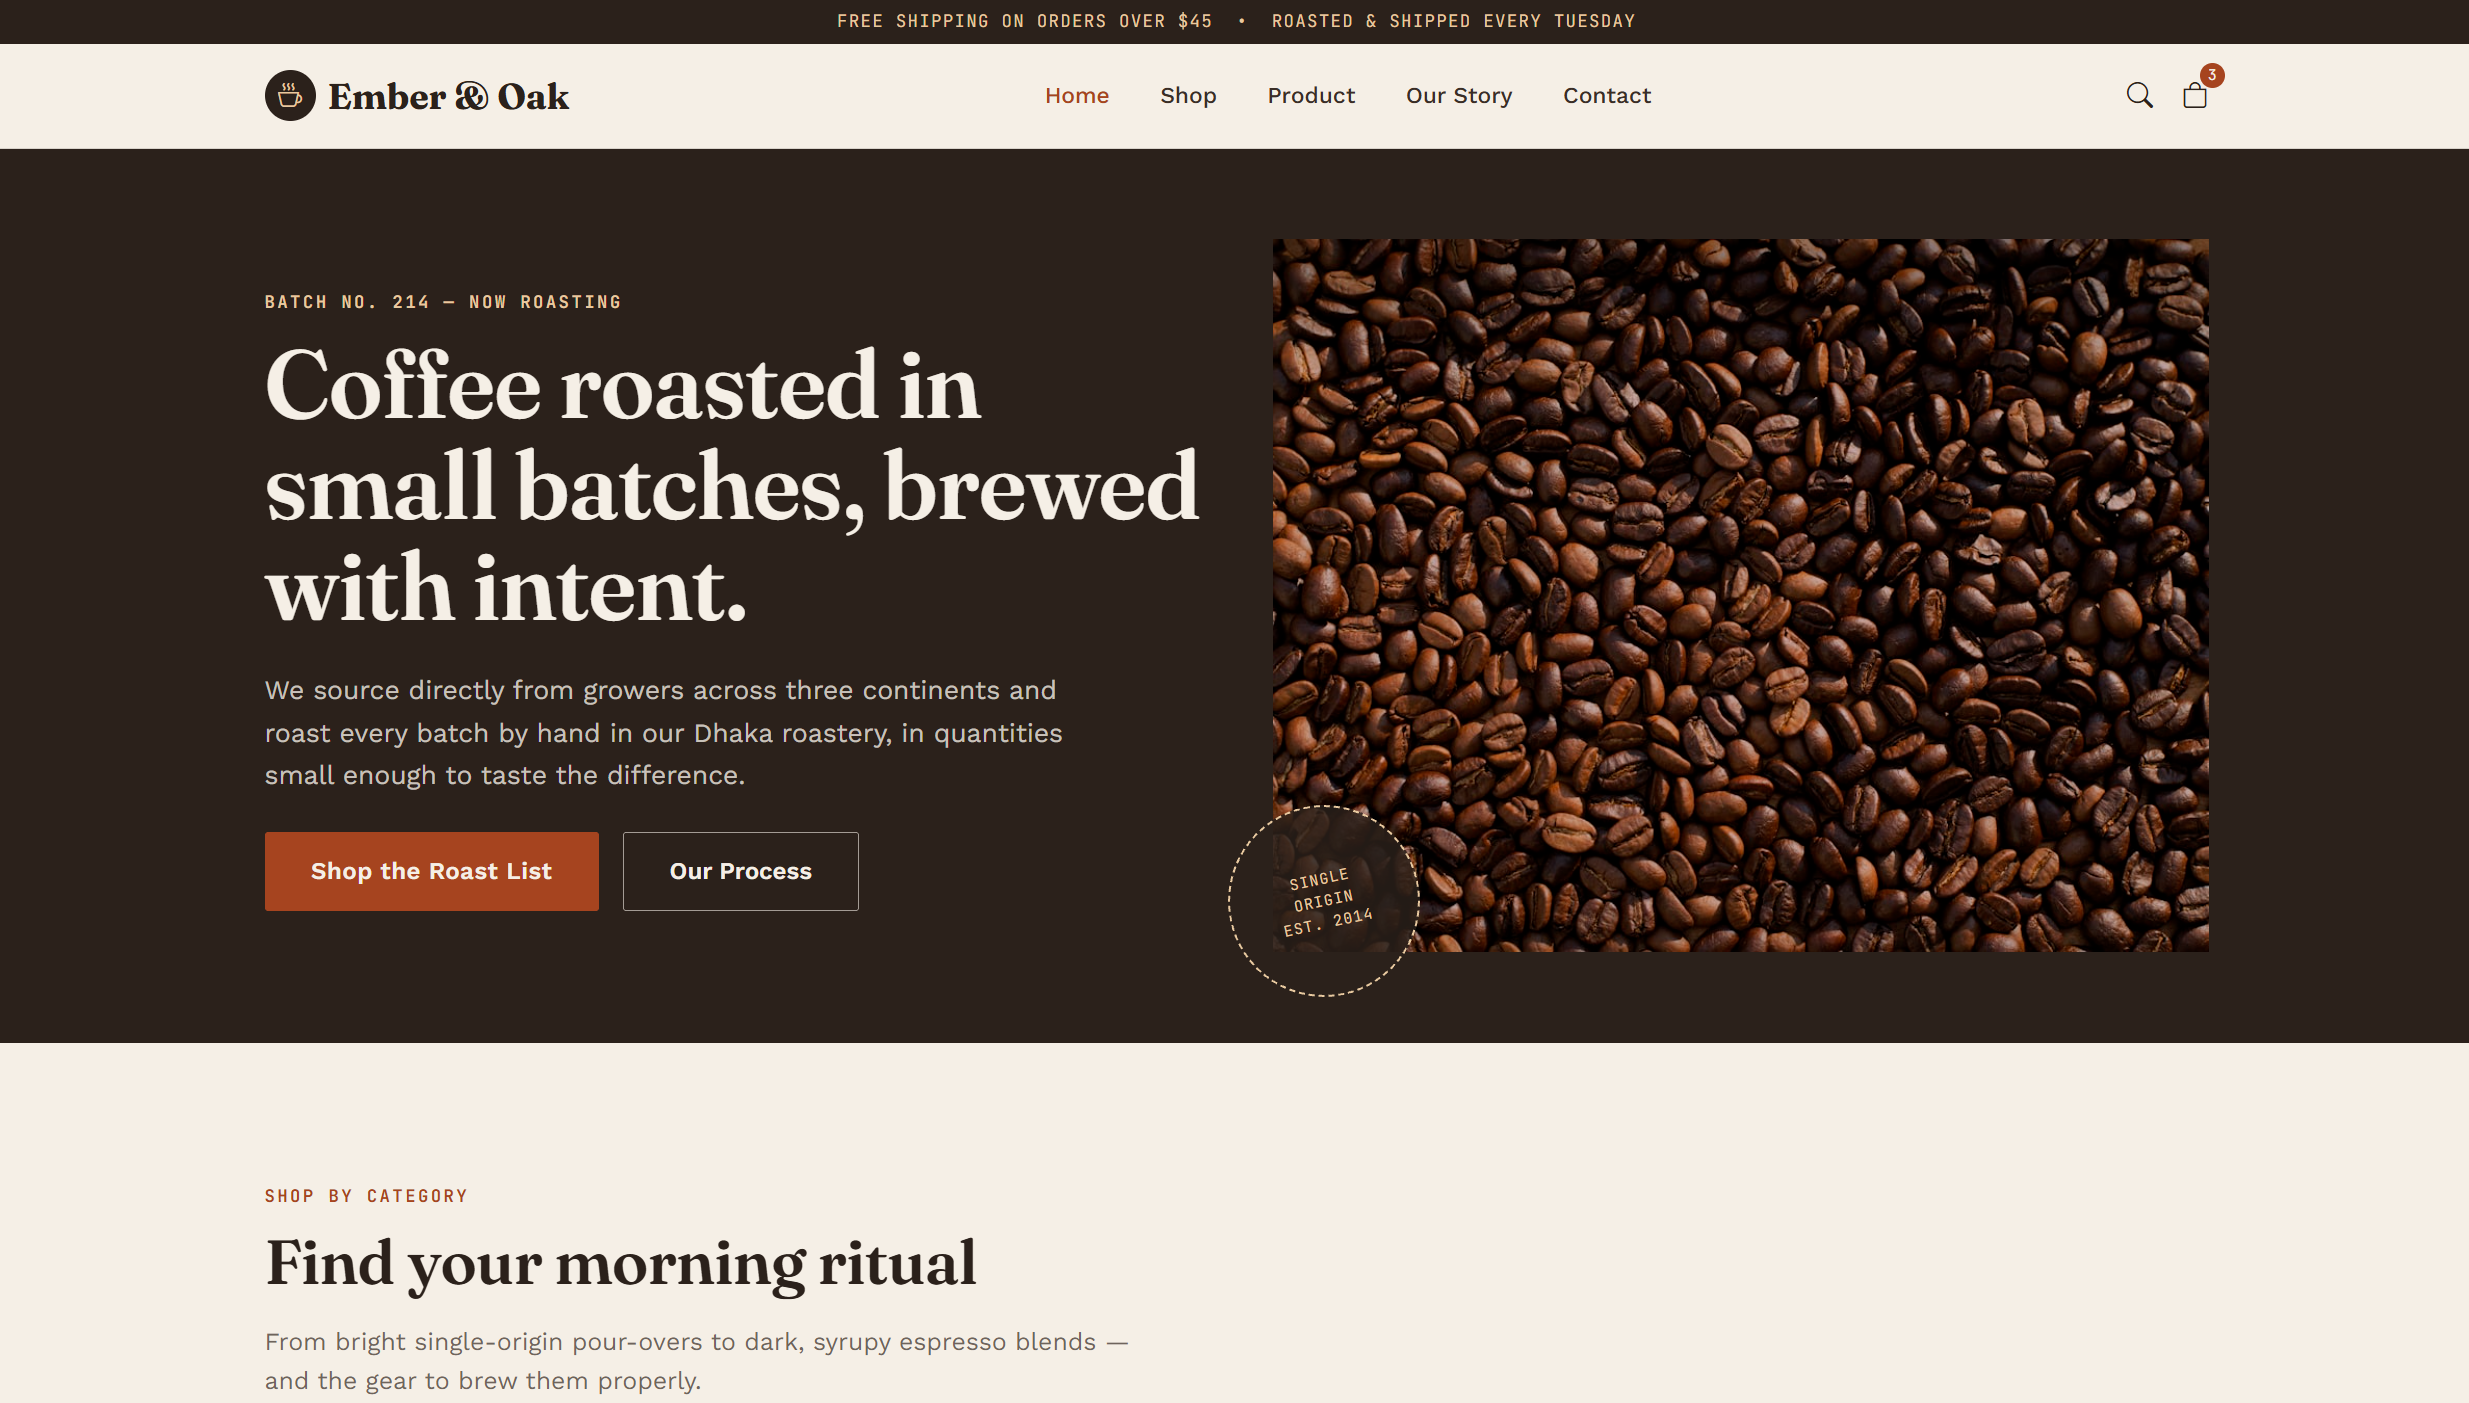
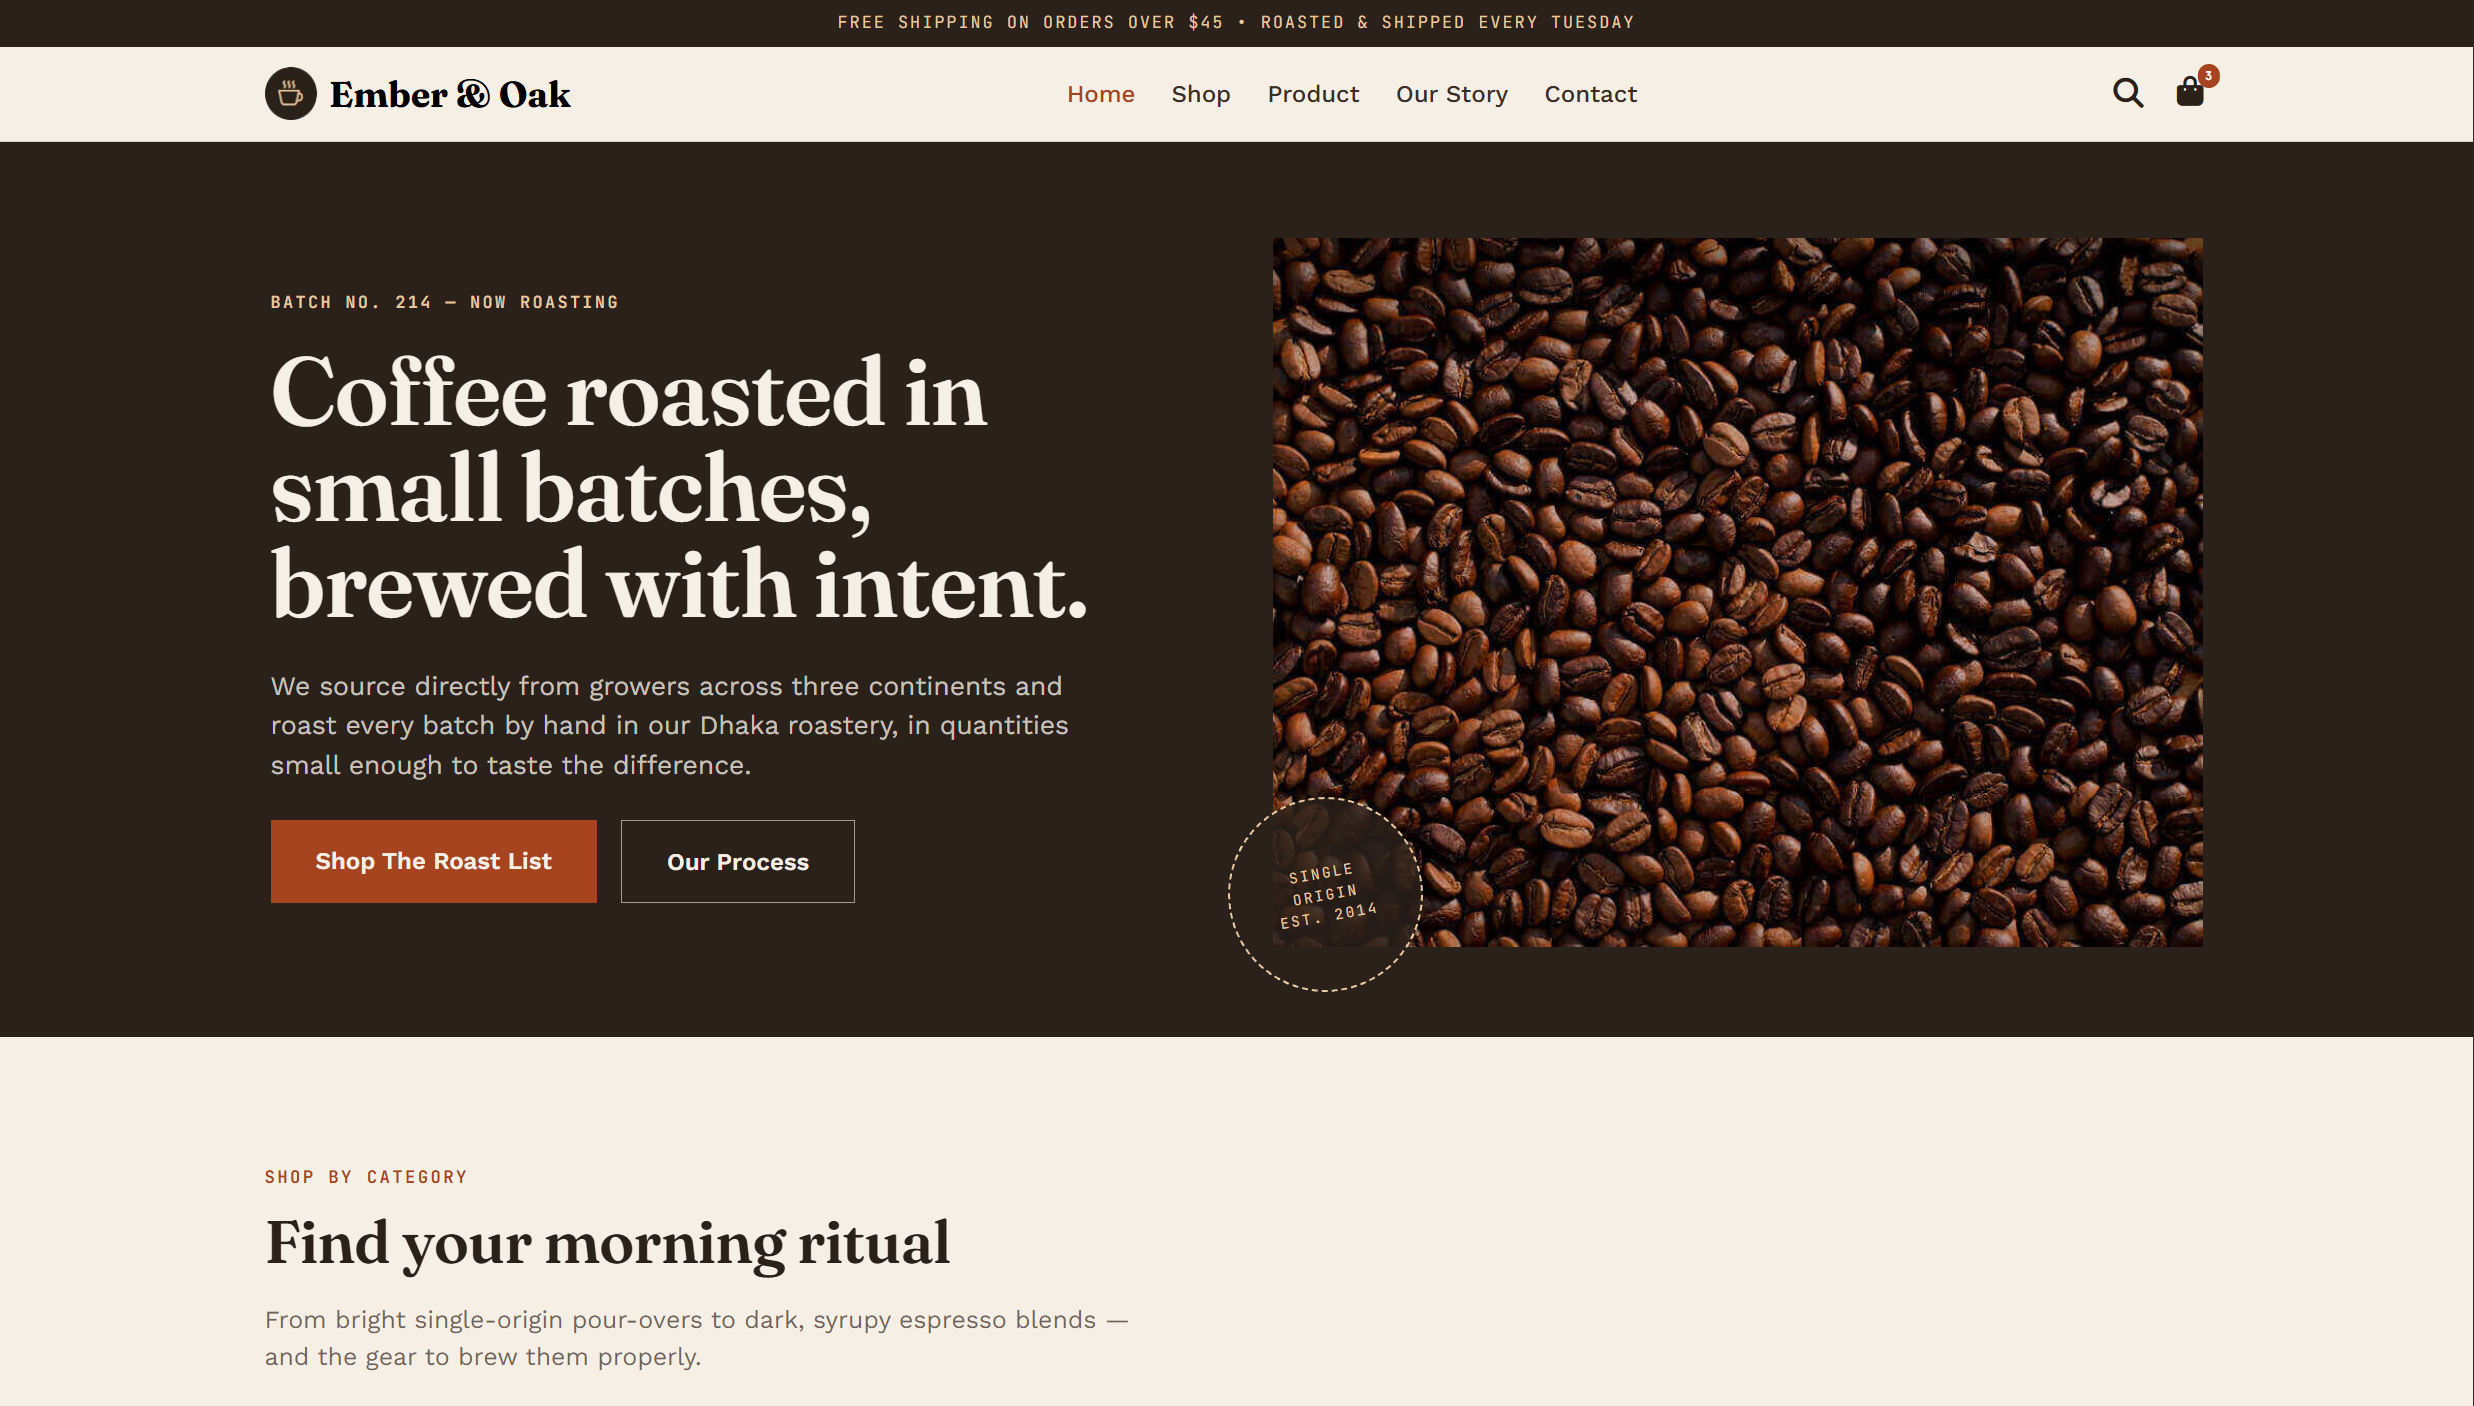
To update preview image and last update date

diff --git a/README.md b/README.md
@@ -3,7 +3,7 @@
 # 🛒 E-Commerce Website
 
 ![Start Date](https://img.shields.io/badge/Started-07%20July%2C%202026-brightgreen?style=for-the-badge)
-![End Date](https://img.shields.io/badge/Completed-00%20July%2C%202026-blue?style=for-the-badge)
+![End Date](https://img.shields.io/badge/Completed-20%20July%2C%202026-blue?style=for-the-badge)
 
 ### _A Sleek, Fully Responsive E-Commerce Platform_
 